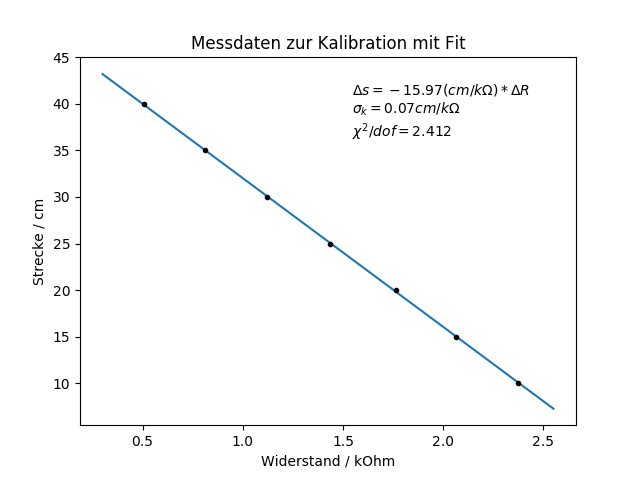
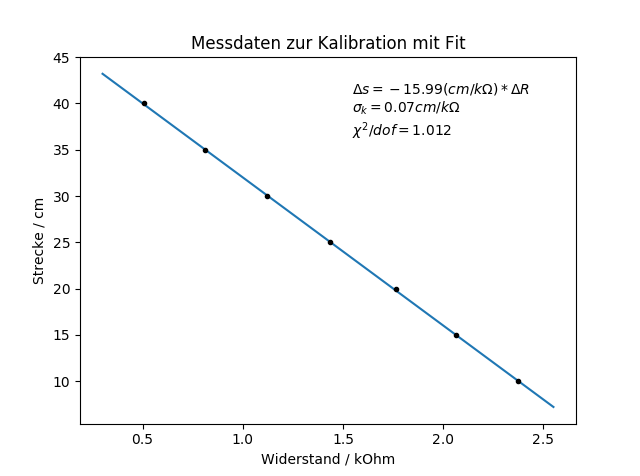
Protocol almost done

diff --git a/Akustik/document.tex b/Akustik/document.tex
@@ -40,9 +40,13 @@
 	\end{tabular} 
 	
 	\subsubsection{Versuchsauswertung}
-	Der Fehler auf diese Strecken ist jeweils $\sigma _{stat} = 0,3cm$, $\sigma_{sys} = 0,7cm$.
+	Der Fehler auf diese Strecken ist jeweils durch den Ablesefehler sowie den Kalibrationsfehler des Maßbands gegeben.
+	\begin{equation}
+	\sigma _{stat} = 0,05cm / \sqrt{12} = 0,15cm \text{\qquad} \sigma_{sys} = 0,07 / \sqrt{3} = 0,04cm
+	\end{equation}
+
 	An diese Rohdaten wurde eine Gerade angepasst. Die Steigung dieser Geraden mit $s=k\cdot R+b$ entspricht also dem gesuchten Umrechnungsfaktor $k$.\\\\
-	Aus der linearen Regression ergibt sich: $ k = (-15,97 \pm 0,07) \frac{cm}{k\Omega}$
+	Aus der linearen Regression ergibt sich: $ k = (-15,99 \pm 0,07) \frac{cm}{k\Omega}$
 	\begin{center}
         \begin{tabular}{|c|c|}
         	\hline
@@ -65,7 +69,7 @@
 		\end{tabular}
 	\end{center}
 	\begin{center}
-		\includegraphics[width=0.75\linewidth]{kalibration_poti_fit}
+		\includegraphics[width=0.7\linewidth]{kalibration_poti_fit}
 	\end{center}
 		
 	
@@ -73,7 +77,11 @@
 	\subsection{Laufzeitmessung}
 	\label{section:Laufzeitmessung}
 	\subsubsection{Versuchsbeschreibung}
-	Schallwellen breiten sich in Gasen (z.B. Luft) mit begrenzter Geschwindigkeit $v_{Schall}$ aus. Um  $v_{Schall}$ zu bestimmen, wird in diesem Versuch direkt die Zeit gemessen, die der Schall für die Ausbreitung vom Lautsprecher bis zum Mikrofon benötigt.
+	Schallwellen breiten sich in Gasen (z.B. Luft) mit begrenzter Geschwindigkeit $v_{Schall}$ aus. Um  $v_{Schall}$ zu bestimmen, wird in diesem Versuch direkt die Zeit gemessen, die der Schall für die Ausbreitung vom Lautsprecher bis zum Mikrofon benötigt.\\
+	Es ist bekannt, dass in idealen Gasen gilt:
+	\begin{equation}
+	v_{Schall} = v_0 \sqrt{T/T_0} \text{\qquad mit \qquad} v_0 = \sqrt{\frac{R\cdot\kappa}{M_{mol}}T_0}
+	\end{equation}
 	Trägt man die Strecke $x$ gegen Laufzeit $t$ auf, so ergibt sich $v_{Schall}$ als Steigung der Geraden durch die Messwerte ($v=\frac{\Delta s}{\Delta t}$).
 	
 	\subsubsection{Versuchsaufbau und -durchführung}
@@ -87,8 +95,8 @@
 	\end{figure}
 	
 
-	Als Lautsprecher wird ein Piezo-Hochtonlautsprecher verwendet. Dieser wird vom Relais-Schalterpaar R2/R3 des Sensor CASSY angesteuert, diese liefern auch das Triggersignal zum Starten der Zeitmessung und das Mikrofon im Triggermodus gibt das Signal zum Beenden der Zeitmessung. Das Mikrofon steht verschiebbar auf einer Metallschiene, die mit einer Tischklemme am Ende des Tisches befestigt ist. Dort befindet sich auch ein Potentiometer (Stromquellenbox, Kanal B) mit Umlenkrolle, um Änderungen der Strecke Lautsprecher - Mikrofon aufzunehmen (siehe Kapitel \ref{section:Kalibration_Poti}). Am Ende der Metallschiene befindet sich eine Rohrhalterung mit Rohr, in dem die Messung stattfindet, um Störungen zu vermeiden. Abbildung \ref{pic:aufbau_laufzeit} zeigt den Aufbau.\\\\
-	Um die Schallgeschwindigkeit zu berechnen, wird die Laufzeit bei unterschiedlichen Mikrofonabständen gemessen. Dabei ist zu beachten, dass das Potentiometer einen Abstand Mikrofon - Potentiometer liefert. Das bedeutet: $\Delta s_{Lautsprecher-Mikrofon} = - \Delta s_{Mikrofon-Poti}$\\\\
+	Als Lautsprecher wird ein Piezo-Hochtonlautsprecher verwendet. Dieser wird vom Relais - Schalterpaar R2/R3 des Sensor CASSY angesteuert, diese liefern auch das Triggersignal zum Starten der Zeitmessung und das Mikrofon im Triggermodus gibt das Signal zum Beenden der Zeitmessung. Das Mikrofon steht verschiebbar auf einer Metallschiene, die mit einer Tischklemme am Ende des Tisches befestigt ist. Dort befindet sich auch ein Potentiometer (Stromquellenbox, Kanal B) mit Umlenkrolle, um Änderungen der Strecke Lautsprecher - Mikrofon aufzunehmen (siehe Kapitel \ref{section:Kalibration_Poti}). Am Ende der Metallschiene befindet sich eine Rohrhalterung mit Rohr, in dem die Messung stattfindet, um Störungen zu vermeiden. Abbildung \ref{pic:aufbau_laufzeit} zeigt den Aufbau. Außerdem wird die Lufttemperatur im Raum gemessen, um die theoretische Vorhersage für die Schallgeschwindigkeit zu ermitteln.\\\\
+	Um die Schallgeschwindigkeit zu berechnen, wird die Laufzeit bei unterschiedlichen Mikrofonabständen gemessen. Wir haben je Abstandseinstellung ca. 20 Messwerte aufgenommen, um den statistischen Fehler auf die Messungen zu bestimmen. Dabei ist zu beachten, dass das Potentiometer einen Abstand Mikrofon - Potentiometer liefert. Das bedeutet: $\Delta s_{Lautsprecher-Mikrofon} = - \Delta s_{Mikrofon-Poti}$\\\\
 	
 
 		\begin{tabular}{l l l}
@@ -101,16 +109,49 @@
 	
 	\subsubsection{Versuchsauswertung}
 	
+	Zunächst wurden die einzelnen Messreihen (Abbildung \ref{pic:messreihen_laufzeit}) auf statistische Fehler untersucht. Daraus ergab sich als Fehler für die Einzelmessungen:
+	\begin{equation}
+	\sigma _{R_{stat}} = 0,63 k\Omega \text{\qquad sowie \qquad} \sigma_{t_{stat}} = 0,29 ms
+	\end{equation}
+	Als systematischer Fehler auf die Widerstandsmessung der Stromquellen-Box haben wir ca. 1\% angenommen: 
+	\begin{equation}
+	\sigma_{R_{sys}} = 0.01 k \Omega
+	\end{equation}
+	\begin{figure}
+	\begin{center}
+		\includegraphics[width=0.75\linewidth]{messreihen_2bis5_laufzeit}
+		\caption{Messreihen 2 bis 5 von insgesamt sieben Messreihen}
+		\label{pic:messreihen_laufzeit}
+		
+		\includegraphics[width=0.7\linewidth]{fit_laufzeit}
+		\caption{Mittelwerte der Messreihen mit angepasster Geraden durch die Messwerte}
+		\label{pic:fit_laufzeit}
+	\end{center}
+	\end{figure}
+	An alle Messreihen zusammen wurde eine Gerade angepasst (Abbildung \ref{pic:fit_laufzeit}), es ergab sich für deren Steigung:
+	\begin{equation}
+	\frac{\Delta R}{\Delta t} = (2181,55 \pm 22,77) \frac{k\Omega}{s}
+	\end{equation} 
 	Gesucht ist die Schallgeschwindigkeit $v_{Schall}$, diese ergibt sich als Steigung der Geraden an die Messwerte, wobei die Widerstände noch in Entfernungen umgerechnet werden müssen. Da nur die Steigung von Interesse ist und nicht der y-Achsenabschnitt, wurde die tatsächliche  Entfernung Lautsprecher - Mikrofon weder gemessen noch berechnet. Es gilt:
 	
 	\begin{equation}
-	v_{Schall} = \frac{\Delta s}{\Delta t} = \frac{\Delta s}{\Delta R} \cdot \frac{\Delta R}{\Delta t} = k \frac{\Delta R}{\Delta t}
+	v_{Schall} = \frac{\Delta s}{\Delta t} = \frac{\Delta s}{\Delta R} \cdot \frac{\Delta R}{\Delta t} = k \frac{\Delta R}{\Delta t} = 352,11 \frac{m}{s}
 	\end{equation}
 	\begin{equation}
-	\sigma_{stat} = v_{Schall}
+	\sigma_{stat} = v_{Schall} \frac{\sigma _{\Delta R / \Delta t}}{\Delta R / \Delta t} = 3,64 \frac{m}{s}
+	\end{equation}
+	\begin{equation}
+	\sigma_{sys} = v_{Schall} \frac{\sigma _k}{k} = 1,53 \frac{m}{s}
 	\end{equation}
 	
-	
+	Also ergibt sich als Ergebnis des Versuchs: $v_{Messung} = (348,90 \pm 3,64 \pm 1,53) \frac{m}{s}$. \\\\
+	Aus der Temperaturmessung erhielten wir, dass die Raumtemperatur zu Beginn des Versuchs $T = (23,459 \pm 0,001)C = (296,609 \pm 0.001)K$ betrug.
+	Daraus ergibt sich eine Schallgeschwindigkeit von
+	\begin{equation}
+	v_{Theorie} =\sqrt{\frac{R\cdot\kappa}{M_mol}}\sqrt{T} = 345,1398 \frac{m}{s} \text{\qquad mit \qquad}
+	\sigma = 0,5 \sqrt{\frac{R\cdot\kappa}{M_mol}} \frac{\sigma_T}{\sqrt{T}} = 0,00058 \frac{m}{s}
+	\end{equation}
+	Die Abweichung der Messung von der Theorie beträgt demnach 0,73 Standardabweichungen. Dies bestätigt zusammen mit den $\chi^2$ von über 2, dass die Fehler etwas zu klein abgeschätzt wurden. Dies liegt wohl daran, dass wir den Fehler der Stromquellen-Box nur als Fortpflanzung der Sensor CASSY-eigenen Fehler kannten. Weiterhin
 	\begin{table}
 		\begin{center}
 			\begin{tabular}{|c|c|}
@@ -133,7 +174,7 @@
 				\hline
 			\end{tabular}
 		\end{center}
-		\caption{Mittelwerte der Messgruppen}
+		\caption{Mittelwerte der Messreihen}
 	\end{table}
 	
 \end{document}

diff --git a/Akustik/auswertung02.py b/Akustik/auswertung02.py
@@ -24,45 +24,35 @@ widerstand_laufzeitmessung = laufzeitmessung[:,3]
 """
 Rauschberechnung
 """
+
+messreihe_widerstand = np.array([ widerstand_laufzeitmessung[0:20], widerstand_laufzeitmessung[20:37], np.concatenate((widerstand_laufzeitmessung[37:42], widerstand_laufzeitmessung[43:57])), widerstand_laufzeitmessung[57:77], widerstand_laufzeitmessung[77:97], widerstand_laufzeitmessung[97:116], widerstand_laufzeitmessung[116:136] ])
+messreihe_laufzeit = np.array([ laufzeit[0:20], laufzeit[20:37], np.concatenate((laufzeit[37:42], laufzeit[43:57])), laufzeit[57:77], laufzeit[77:97], laufzeit[97:116], laufzeit[116:136] ])
+
 R = np.empty(7)
 t=np.empty(7)
 sigma_R = np.empty(7)
 sigma_t = np.empty(7)
-R[0] = np.mean(widerstand_laufzeitmessung[0:20])
-R[1] = np.mean(widerstand_laufzeitmessung[20:37])
-R[2] = np.mean(widerstand_laufzeitmessung[37:57])
-R[3] = np.mean(widerstand_laufzeitmessung[57:77])
-R[4] = np.mean(widerstand_laufzeitmessung[77:97])
-R[5] = np.mean(widerstand_laufzeitmessung[97:116])
-R[6] = np.mean(widerstand_laufzeitmessung[116:136])
-
-t[0] = np.mean(laufzeit[0:20])
-t[1] = np.mean(laufzeit[20:37])
-t[2] = np.mean(laufzeit[37:57])
-t[3] = np.mean(laufzeit[57:77])
-t[4] = np.mean(laufzeit[77:97])
-t[5] = np.mean(laufzeit[97:116])
-t[6] = np.mean(laufzeit[116:136])
-
-sigma_R[0] = np.std(widerstand_laufzeitmessung[0:20], ddof=1) / np.sqrt(20)
-sigma_R[1] = np.std(widerstand_laufzeitmessung[20:37], ddof=1) / np.sqrt(17)
-sigma_R[2] = np.std(widerstand_laufzeitmessung[37:57], ddof=1) / np.sqrt(20)
-sigma_R[3] = np.std(widerstand_laufzeitmessung[57:77], ddof=1) / np.sqrt(20)
-sigma_R[4] = np.std(widerstand_laufzeitmessung[77:97], ddof=1) / np.sqrt(20)
-sigma_R[5] = np.std(widerstand_laufzeitmessung[97:116], ddof=1) / np.sqrt(19)
-sigma_R[6] = np.std(widerstand_laufzeitmessung[116:136], ddof=1) / np.sqrt(20)
-
-sigma_t[0] = np.std(laufzeit[0:20], ddof=1) / np.sqrt(20)
-sigma_t[1] = np.std(laufzeit[20:37], ddof=1) / np.sqrt(17)
-sigma_t[2] = np.std(laufzeit[37:57], ddof=1) / np.sqrt(20)
-sigma_t[3] = np.std(laufzeit[57:77], ddof=1) / np.sqrt(20)
-sigma_t[4] = np.std(laufzeit[77:97], ddof=1) / np.sqrt(20)
-sigma_t[5] = np.std(laufzeit[97:116], ddof=1) / np.sqrt(19)
-sigma_t[6] = np.std(laufzeit[116:136], ddof=1) / np.sqrt(20)
 
 
 
 
+sigma_R = np.empty(7)
+sigma_t = np.empty(7)
+for i in range(0,7):
+    R[i] = np.mean(messreihe_widerstand[i])
+    t[i] = np.mean(messreihe_laufzeit[i])
+    sigma_R[i] = np.std(messreihe_widerstand[i], ddof=1)
+    sigma_t[i] = np.std(messreihe_laufzeit[i], ddof=1)
+
+sigma_R_sys = 0.01
+
+
+plt.figure(1, [8, 8])
+for i in range(1, 5):
+    plt.subplot(4, 1, i)
+    plt.errorbar(messreihe_laufzeit[i]*1000, messreihe_widerstand[i], xerr=sigma_t[i]*1000, yerr=sigma_R[i]+sigma_R_sys, fmt=".")
+    plt.ylabel("R / $k\Omega$")
+    plt.xlabel("t / $ms$")
 
 
 
@@ -77,7 +67,7 @@ widerstand = kalibrierung[:,2]
 strecke = kalibrierung[:,3]
 
 # Plot Rohdaten
-plt.figure(1)
+plt.figure(2)
 plt.subplot(1, 1, 1)
 plt.title("Messdaten zur Kalibration mit Fit")
 plt.ylabel("Strecke / cm")
@@ -86,7 +76,7 @@ plt.errorbar(widerstand, strecke, yerr=0.03+0.07/np.sqrt(3), xerr=sigma_R, fmt="
 
 
 
-a, ea, b, eb, chi2, cov = p.lineare_regression_xy(widerstand, strecke, sigma_R, np.full(7, 0.03+0.07/np.sqrt(3)))
+a, ea, b, eb, chi2, cov = p.lineare_regression_xy(widerstand, strecke, sigma_R, np.full(7, 0.015+0.07/np.sqrt(3)))
 
 cm_pro_kOhm = np.abs(a)
 sigma_cm_pro_kOHm = ea
@@ -117,14 +107,14 @@ sigma_t_array = np.concatenate( (np.full(20, sigma_t[0]), np.full(17, sigma_t[1]
 plt.figure(3)
 plt.subplot(1,1,1)
 #plt.errorbar(laufzeit, widerstand_laufzeitmessung, xerr=np.ones(laufzeit.size)*np.mean(sigma_t), yerr= np.ones(laufzeit.size)*np.mean(sigma_R), fmt="k.")
-plt.errorbar(t, R, xerr=sigma_t, yerr= sigma_R, fmt="k.")
+plt.errorbar(t, R, xerr=sigma_t, yerr= sigma_R+sigma_R_sys, fmt="k.")
 plt.title("Laufzeitmessung")
 plt.xlabel("Laufzeit / s")
 plt.ylabel("Widerstand / kOhm")
 
 # Linreg Laufzeitmessung
 #a, ea, b, eb, chi2, cov = p.lineare_regression_xy(laufzeit, widerstand_laufzeitmessung, sigma_t_array, sigma_R_array)
-a, ea, b, eb, chi2, cov = p.lineare_regression_xy(t, R, sigma_t*4.3, sigma_R*4.3)
+a, ea, b, eb, chi2, cov = p.lineare_regression_xy(t, R, sigma_t/4.3, (sigma_R)/4.3+sigma_R_sys)
 
 
 # Plot Fit
@@ -132,10 +122,21 @@ x=np.arange(10)*0.001/9+0.00065
 y=a*x+b
 plt.plot(x, y)
 dof = t.size -2
-plt.figtext(0.15, 0.70, "$\Delta R / \Delta t = {:2.2f}(k\Omega /s)$\n$\sigma_a={:1.2f}k\Omega / t$\n$\chi ^2 /dof ={:2.3f}$".format(a, ea, chi2/dof))
+plt.figtext(0.15, 0.70, "$\Delta R / \Delta t = {:2.2f}(k\Omega /s)$\n$\sigma_a={:1.2f}k\Omega / s$\n$\chi ^2 /dof ={:2.3f}$".format(a, ea, chi2/dof))
+
+# Pullverteilung
+plt.figure(4)
+
+plt.subplot(2, 1, 1)
+plt.errorbar(laufzeit, widerstand_laufzeitmessung - laufzeit*a-b, fmt=".")
+plt.title("Residuen- und Pullverteilung")
+plt.subplot(2, 1, 2)
+plt.hist(widerstand_laufzeitmessung - laufzeit*a-b, bins =15)
 
 
 # Schgallgeschwindigkeit berechnen
 v_laufzeitmessung = cm_pro_kOhm * a/100
-sigma_v_laufzeitmessung = v_laufzeitmessung * ((sigma_cm_pro_kOHm/cm_pro_kOhm) + (ea/a))
+sigma_sys_v_laufzeitmessung = v_laufzeitmessung * (sigma_cm_pro_kOHm/cm_pro_kOhm)
+sigma_stat_v_laufzeitmessung = v_laufzeitmessung * ea/a
+sigma_v_laufzeitmessung = sigma_stat_v_laufzeitmessung+sigma_sys_v_laufzeitmessung
 print("Laufzeitmessung ergibt:\n v={:4.4f}m/s \n sigma _v = {:2.4f}m/s".format(v_laufzeitmessung, sigma_v_laufzeitmessung))
